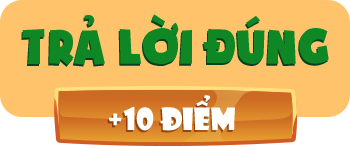
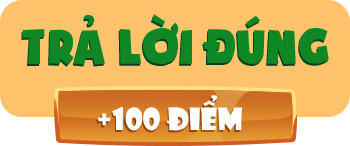
update

Changed region(s): [[0.2571, 0.6301, 0.7143, 0.9041]]

diff --git a/js/Screen/ChaseImageCaptureWord/ChaseImageCaptureWordScreen1.js b/js/Screen/ChaseImageCaptureWord/ChaseImageCaptureWordScreen1.js
@@ -46,9 +46,9 @@ function ChaseImageCaptureWordScreen1 () {
         new CText(oModePos.x, oModePos.y + 30, null, 'sẽ được tính là qua game', "MontserratSemiBold", "#fff", 25, s_oStage);
 
         new CText(780, oModePos.y + 125, null, 'CÁCH TÍNH ĐIỂM:', "MontserratBlack", "#fff", 35, s_oStage)
-        new CText(850, oModePos.y + 165, null, '• Trả lời đúng trong 15s đầu: 30 điểm', "MontserratSemiBold", "#fff", 25, s_oStage)
-        new CText(884, oModePos.y + 200, null, '• Trả lời đúng trong 15s tiếp theo: 20 điểm', "MontserratSemiBold", "#fff", 25, s_oStage)
-        new CText(860, oModePos.y + 235, null, '• Trả lời đúng trong vòng 60s: 10 điểm', "MontserratSemiBold", "#fff", 25, s_oStage)
+        new CText(850, oModePos.y + 165, null, '• Trả lời đúng trong 15s đầu: 300 điểm', "MontserratSemiBold", "#fff", 25, s_oStage)
+        new CText(884, oModePos.y + 200, null, '• Trả lời đúng trong 15s tiếp theo: 200 điểm', "MontserratSemiBold", "#fff", 25, s_oStage)
+        new CText(860, oModePos.y + 235, null, '• Trả lời đúng trong vòng 60s: 100 điểm', "MontserratSemiBold", "#fff", 25, s_oStage)
 
         var oSprite = s_oSpriteLibrary.getSprite('button_background_3');
         _pStartPos = {x: (oSprite.width/2) + 30, y: (oSprite.height/2) + 30}; 

diff --git a/js/Screen/Game4/Game4Screen2.js b/js/Screen/Game4/Game4Screen2.js
@@ -47,7 +47,7 @@ function Game4Screen2 () {
 
     this.init = function() {
 
-        _iTimeElapsed = 60000;
+        _iTimeElapsed = 90000;
         gamePart = 0;
         _bUpdate = true;
         _iScore = 0;
@@ -241,7 +241,7 @@ function Game4Screen2 () {
                 _selectText[index].changeText(this._randomString(1))
         }
 
-        _iTimeElapsed = 60000;
+        _iTimeElapsed = 90000;
         _bUpdate = true;
     }
 
@@ -269,7 +269,7 @@ function Game4Screen2 () {
             if (textInput[index].status === false && text.toUpperCase() == textInput[index].text.toUpperCase()) {
                 GAME_4_SCORE = _iScore;
                 saveScore(4)
-                _iScore += 10;
+                _iScore += 100;
                 playSound('bonus-collect', 1, false)
 
                 textInput[index].status = true
@@ -552,7 +552,7 @@ function Game4Screen2 () {
             // Change time text
             _Time.changeText(formatTime(_iTimeElapsed))
             // Change time process
-            _Time.updateProcess((_iTimeElapsed / 60000) * 100 )
+            _Time.updateProcess((_iTimeElapsed / 90000) * 100 )
         }
     }
     

diff --git a/js/Screen/Game4/Game4Screen1.js b/js/Screen/Game4/Game4Screen1.js
@@ -49,7 +49,7 @@ function Game4Screen1 () {
         new CText(oModePos.x - 235, oModePos.y + 140, null, '60 giây', "MontserratSemiBold", "#fff", 25, s_oStage);
 
         new CText(oModePos.x - 145, oModePos.y + 240, null, '• CÁCH TÍNH ĐIỂM: ', "MontserratBlack", "#fff", 30, s_oStage);
-        new CText(oModePos.x - 65, oModePos.y + 280, null, 'Mỗi từ tìm được sẽ được 10 điểm', "MontserratSemiBold", "#fff", 25, s_oStage);
+        new CText(oModePos.x - 65, oModePos.y + 280, null, 'Mỗi từ tìm được sẽ được 100 điểm', "MontserratSemiBold", "#fff", 25, s_oStage);
         
 
         var oSprite = s_oSpriteLibrary.getSprite('button_background_3');

diff --git a/js/Screen/ChaseImageCaptureWord/ChaseImageCaptureWordScreen2.js b/js/Screen/ChaseImageCaptureWord/ChaseImageCaptureWordScreen2.js
@@ -235,11 +235,11 @@ function ChaseImageCaptureWordScreen2 () {
     // Tinh diem
     this.sCore = function() {
         if (_iTimeElapsed > 45000) {
-            _iScore += 30
+            _iScore += 300
         } else if (_iTimeElapsed > 30000) {
-            _iScore += 20
+            _iScore += 200
         } else if (_iTimeElapsed > 0) {
-            _iScore += 10
+            _iScore += 100
         }
         // Cap nhat lai diem so
         GAME_2_SCORE = _iScore

diff --git a/js/Screen/Game3/Game3Screen2.js b/js/Screen/Game3/Game3Screen2.js
@@ -161,11 +161,11 @@ function Game3Screen2 () {
 
             console.log('tra loi dung')
             // Cong diem
-            Score += 10
+            Score += 100
         } else {
             console.log('tra loi sai')
             // Tru diem
-            Score -= 20
+            Score -= 50
             if (Score < 0) { Score = 0 }
         }
 
